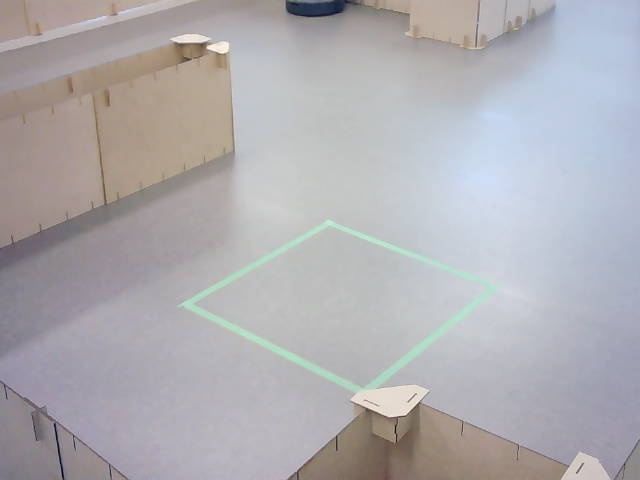
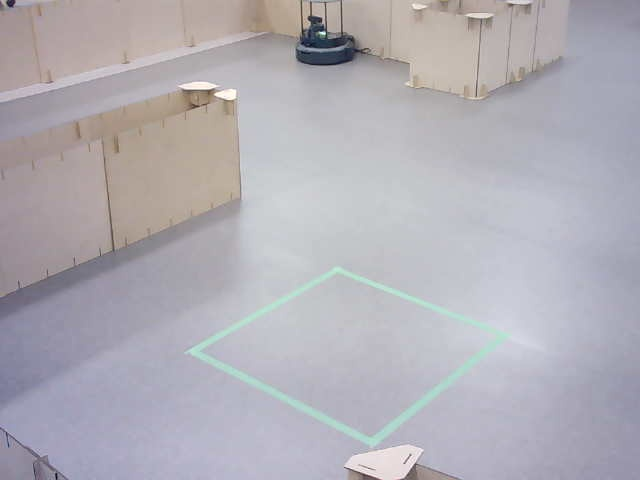
HMI 설치 실행 버그 수정, 혼잡도 COCO 분리, cam1 재측량
- map_view: install 경로에서 지도 못 찾던 문제를 maps/map.yaml 존재 탐색으로 수정
- setup.py: schema.sql을 package_data에 포함해 install 실행 시 FileNotFoundError 해결
- inference_pipeline: 골목 혼잡도는 backend와 무관하게 COCO person 모델로 계산
- survey_point: V4L2+MJPG로 웹캠 열기, cam1 측량점 갱신(이전 값은 cam1_old_20260807 백업)
- survey_point_amcl.py: AMCL 기반 측량 도구 추가

diff --git a/src/aed_vision/aed_vision/inference_pipeline.py b/src/aed_vision/aed_vision/inference_pipeline.py
@@ -201,14 +201,18 @@ class InferencePipeline:
                     f"got {self.pose_model.task}"
                 )
 
-        # COCO person 모델은 mannequin_detect에서 "인파 계산" 또는 "사람을
-        # helper로도 취급"이 필요할 때만 추가로 로드한다. person_pose
-        # backend는 Pose 모델의 bbox를 사람 수로 재사용하므로 여기서 로드하지 않는다.
+        # 자세 판정과 혼잡도 판정은 목적과 품질 기준이 다르다. person_pose의
+        # bbox는 관절 품질 필터를 통과한 사람만 남으므로 인파를 누락할 수 있다.
+        # 따라서 골목(enable_crowd)에서는 backend와 무관하게 COCO person 모델을
+        # 별도로 로드한다. mannequin_detect의 helper 판정도 같은 모델을 쓴다.
         self.person_model = None
         self.person_class_id = -1
         if (
-            self.detection_backend == "mannequin_detect"
-            and (enable_crowd or detect_people_as_helpers)
+            enable_crowd
+            or (
+                self.detection_backend == "mannequin_detect"
+                and detect_people_as_helpers
+            )
         ):
             self.person_model = YOLO(
                 str(_model_path(person_weights, "COCO person weights"))
@@ -303,30 +307,10 @@ class InferencePipeline:
         time_multiplier = None
         crowd_traversable = True
 
-        # 2단계: 인원수/혼잡도 계산. 두 backend가 "사람 bbox 출처"만 다르고
-        # 이후 필터링(filter_nonfallen_people: ROI 안 + 환자 제외)과 혼잡도
-        # 계산 로직은 동일하다.
-        if self.detection_backend == "person_pose":
-            # Pose 모델이 이미 사람 bbox를 갖고 있으므로 별도 모델 호출 없이 재사용한다.
-            person_result = rescue_result
-            height, width = frame.shape[:2]
-            people = filter_nonfallen_people(
-                pose_people,
-                fallen,
-                (width, height),
-                self.crowd_roi,
-                self.overlap_threshold,
-            )
-            person_count = len(people)
-            if self.detect_people_as_helpers:
-                # 로봇 모드: 환자를 제외한 나머지 사람을 구조 인력 후보로 삼는다.
-                helpers = people
-            if self.enable_crowd:
-                crowd_level = classify_crowd(person_count)
-                time_multiplier = crowd_time_multiplier(person_count)
-                crowd_traversable = time_multiplier is not None
-        elif self.person_model is not None:
-            # mannequin_detect + COCO person 모델을 별도로 한 번 더 돌린다.
+        # 2단계: 인원수/혼잡도 계산. 혼잡도를 사용하는 골목 모드는 반드시
+        # COCO person 결과를 사용한다. ROI 밖 사람과 쓰러진 환자 bbox와 겹치는
+        # 검출은 filter_nonfallen_people에서 제외한다.
+        if self.person_model is not None:
             person_result = self.person_model.predict(
                 frame,
                 conf=self.person_conf,
@@ -348,6 +332,19 @@ class InferencePipeline:
                 crowd_level = classify_crowd(person_count)
                 time_multiplier = crowd_time_multiplier(person_count)
                 crowd_traversable = time_multiplier is not None
+        elif self.detection_backend == "person_pose" and self.detect_people_as_helpers:
+            # 혼잡도 없이 Pose를 쓰는 로봇 모드는 별도 COCO 호출을 하지 않고,
+            # 관절 품질 필터를 통과한 사람 bbox를 helper 후보로 재사용한다.
+            height, width = frame.shape[:2]
+            people = filter_nonfallen_people(
+                pose_people,
+                fallen,
+                (width, height),
+                self.crowd_roi,
+                self.overlap_threshold,
+            )
+            person_count = len(people)
+            helpers = people
 
         return InferenceOutput(
             rescue_result,
@@ -406,7 +403,7 @@ class InferencePipeline:
                     cv2.FONT_HERSHEY_SIMPLEX, 0.52, color, 2,
                 )
         boxes = getattr(output.person_result, "boxes", None)
-        if boxes is not None and output.detection_backend == "mannequin_detect":
+        if boxes is not None:
             for x1, y1, x2, y2 in boxes.xyxy.int().cpu().tolist():
                 cv2.rectangle(image, (x1, y1), (x2, y2), (255, 0, 255), 2)
 

diff --git a/tools/survey_point_amcl.py b/tools/survey_point_amcl.py
@@ -1,0 +1,119 @@
+#!/usr/bin/env python3
+"""survey_point.py 의 amcl_pose 판. tf 가 막힐 때 쓴다.
+
+map->base_link tf 를 못 받는 상황이 있었다. Nav2 전체가 도는 중에는 tf
+트래픽이 밀려 TransformListener 버퍼가 비어 있는 채로 시간만 흘렀다
+(RViz 도 같은 시각 'queue is full' 로 메시지를 버리고 있었다).
+
+amcl_pose 는 그 tf 와 같은 값을 담고 토픽 하나로 오므로 영향을 덜 받는다.
+기록 형식은 survey_point.py 와 같아서 pick_pixels.py, fit_homography.py 를
+그대로 이어서 쓸 수 있다.
+
+사용:
+  CAM_ID=1 CAM_INDEX=2 ROBOT_NS=/robot1 python3 tools/survey_point_amcl.py p2
+"""
+import csv
+import math
+import os
+import sys
+
+import cv2
+import rclpy
+from geometry_msgs.msg import PoseWithCovarianceStamped
+from rclpy.node import Node
+from rclpy.qos import DurabilityPolicy, QoSProfile, ReliabilityPolicy
+
+REPO = os.path.dirname(os.path.dirname(os.path.abspath(__file__)))
+CAM_ID = os.environ.get("CAM_ID", "1")
+CAM_INDEX = int(os.environ.get("CAM_INDEX", "2"))
+ROBOT_NS = os.environ.get("ROBOT_NS", "/robot1")
+OUT = os.path.join(REPO, "tools", "survey", f"cam{CAM_ID}")
+CSV = os.path.join(OUT, "points.csv")
+HEADER = ["label", "map_x", "map_y", "yaw_deg", "pixel_u", "pixel_v"]
+
+
+def grab_pose(timeout_s=20.0):
+    rclpy.init()
+    node = Node("survey_point_amcl")
+    box = {}
+    # Nav2 의 amcl_pose 는 transient local 로 발행된다. 기본 QoS 로 구독하면
+    # 호환되지 않아 한 건도 못 받는다(ros2 topic echo 는 자동으로 맞춰준다).
+    qos = QoSProfile(depth=1)
+    qos.durability = DurabilityPolicy.TRANSIENT_LOCAL
+    qos.reliability = ReliabilityPolicy.RELIABLE
+    node.create_subscription(
+        PoseWithCovarianceStamped, f"{ROBOT_NS}/amcl_pose",
+        lambda m: box.setdefault("pose", m.pose.pose), qos,
+    )
+    for _ in range(int(timeout_s * 10)):
+        rclpy.spin_once(node, timeout_sec=0.1)
+        if "pose" in box:
+            break
+    node.destroy_node()
+    rclpy.shutdown()
+    return box.get("pose")
+
+
+def grab_frame():
+    # 기본 백엔드로 열면 이 USB 웹캠은 read() 에서 멈춘다. 노드와 같은 방식.
+    cap = cv2.VideoCapture(CAM_INDEX, cv2.CAP_V4L2)
+    if not cap.isOpened():
+        return None
+    cap.set(cv2.CAP_PROP_FOURCC, cv2.VideoWriter_fourcc(*"MJPG"))
+    cap.set(cv2.CAP_PROP_FRAME_WIDTH, 640)
+    cap.set(cv2.CAP_PROP_FRAME_HEIGHT, 480)
+    cap.set(cv2.CAP_PROP_BUFFERSIZE, 1)
+    frame = None
+    for _ in range(10):
+        ok, f = cap.read()
+        if ok:
+            frame = f
+    cap.release()
+    return frame
+
+
+def main():
+    if len(sys.argv) < 2:
+        print("사용: python3 tools/survey_point_amcl.py <label>")
+        return 1
+    label = sys.argv[1]
+    os.makedirs(OUT, exist_ok=True)
+
+    pose = grab_pose()
+    if pose is None:
+        print(f"실패: {ROBOT_NS}/amcl_pose 를 못 받았다. localization 확인")
+        return 1
+    frame = grab_frame()
+    if frame is None:
+        print(f"실패: /dev/video{CAM_INDEX} 를 못 엶")
+        return 1
+
+    x, y = pose.position.x, pose.position.y
+    yaw = math.degrees(
+        2.0 * math.atan2(pose.orientation.z, pose.orientation.w)
+    )
+    image_path = os.path.join(OUT, f"{label}.jpg")
+    cv2.imwrite(image_path, frame)
+
+    rows = []
+    if os.path.exists(CSV):
+        with open(CSV, newline="", encoding="utf-8") as handle:
+            rows = [r for r in csv.DictReader(handle) if r.get("label") != label]
+    rows.append({
+        "label": label, "map_x": f"{x:.4f}", "map_y": f"{y:.4f}",
+        "yaw_deg": f"{yaw:.1f}", "pixel_u": "", "pixel_v": "",
+    })
+    with open(CSV, "w", newline="", encoding="utf-8") as handle:
+        writer = csv.DictWriter(handle, fieldnames=HEADER)
+        writer.writeheader()
+        writer.writerows(rows)
+
+    print(f"[{label}] 기록 완료")
+    print(f"  맵 좌표 : x={x:.3f}  y={y:.3f}  yaw={yaw:.1f}deg")
+    print(f"  이미지  : {image_path}  ({frame.shape[1]}x{frame.shape[0]})")
+    print(f"  CSV     : {CSV}")
+    return 0
+
+
+if __name__ == "__main__":
+    sys.exit(main())

diff --git a/src/aed_hmi/backend/api/map_view.py b/src/aed_hmi/backend/api/map_view.py
@@ -28,11 +28,21 @@ router = APIRouter(prefix="/api/map", tags=["map"])
 
 # 저장소 안의 공용 지도. 두 로봇이 같은 지도를 쓴다.
 def _repo_root() -> str:
-    """이 파일에서 저장소 뿌리까지. api → backend → aed_hmi → src → 뿌리."""
-    here = os.path.abspath(__file__)
-    for _ in range(5):
-        here = os.path.dirname(here)
-    return here
+    """maps/map.yaml 이 있는 디렉터리를 위로 거슬러 찾는다.
+
+    단수를 세어 올라가면 소스에서 실행할 때만 맞는다. colcon 이 설치한
+    install/aed_hmi/lib/... 아래에서 돌면 깊이가 달라 엉뚱한 곳을 가리킨다.
+    실제로 launch 로 띄웠을 때 install/aed_hmi/lib/maps/map.yaml 을 찾아
+    지도가 안 떴다. 그래서 개수가 아니라 존재로 찾는다.
+    """
+    here = os.path.dirname(os.path.abspath(__file__))
+    while True:
+        if os.path.isfile(os.path.join(here, "maps", "map.yaml")):
+            return here
+        parent = os.path.dirname(here)
+        if parent == here:      # 루트까지 갔는데 없다
+            return here
+        here = parent
 
 
 MAP_YAML = os.environ.get(

diff --git a/tools/survey_point.py b/tools/survey_point.py
@@ -56,9 +56,17 @@ def grab_pose(timeout_s=30.0):
 
 
 def grab_frame():
-    cap = cv2.VideoCapture(CAM_INDEX)
+    # 기본 백엔드로 열면 이 USB 웹캠에서 프레임이 오지 않고 read() 가 멈춘다.
+    # aed_vision/camera_source.py 와 같은 방식(V4L2 + MJPG)으로 연다.
+    cap = cv2.VideoCapture(CAM_INDEX, cv2.CAP_V4L2)
+    if not cap.isOpened():
+        cap = cv2.VideoCapture(CAM_INDEX)
     if not cap.isOpened():
         return None
+    cap.set(cv2.CAP_PROP_FOURCC, cv2.VideoWriter_fourcc(*"MJPG"))
+    cap.set(cv2.CAP_PROP_FRAME_WIDTH, 640)
+    cap.set(cv2.CAP_PROP_FRAME_HEIGHT, 480)
+    cap.set(cv2.CAP_PROP_BUFFERSIZE, 1)
     frame = None
     for _ in range(10):  # 자동노출 안정화
         ok, f = cap.read()

diff --git a/src/aed_hmi/setup.py b/src/aed_hmi/setup.py
@@ -10,6 +10,9 @@ setup(
     name=package_name,
     version="0.1.0",
     packages=find_packages(exclude=["test"]),
+    # find_packages 는 .py 만 담는다. Repository 가 기동할 때 읽는 schema.sql 이
+    # 빠지면 install 로 실행한 백엔드가 FileNotFoundError 로 죽는다.
+    package_data={"backend.store": ["schema.sql"]},
     data_files=[
         (
             "share/ament_index/resource_index/packages",
